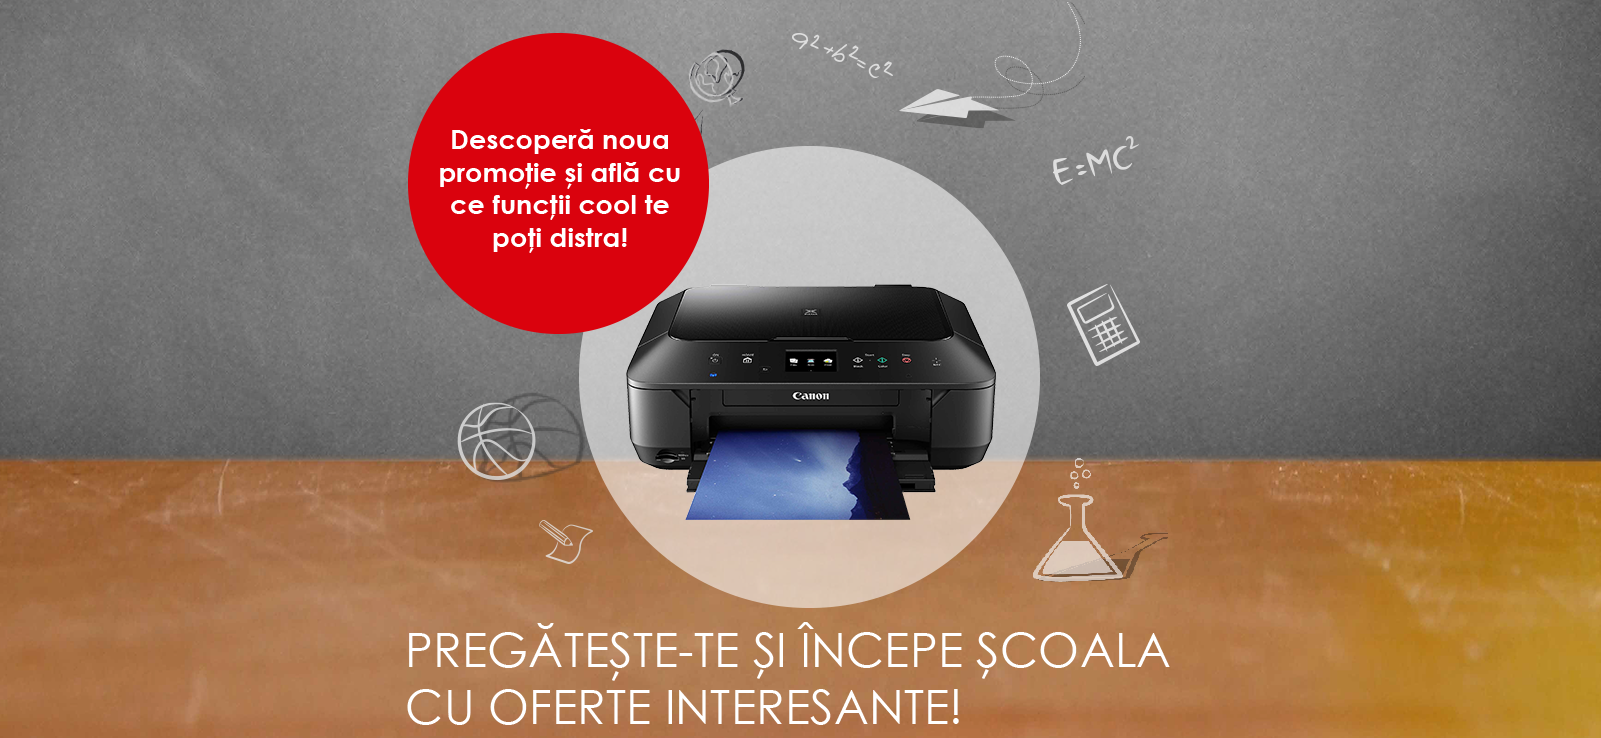
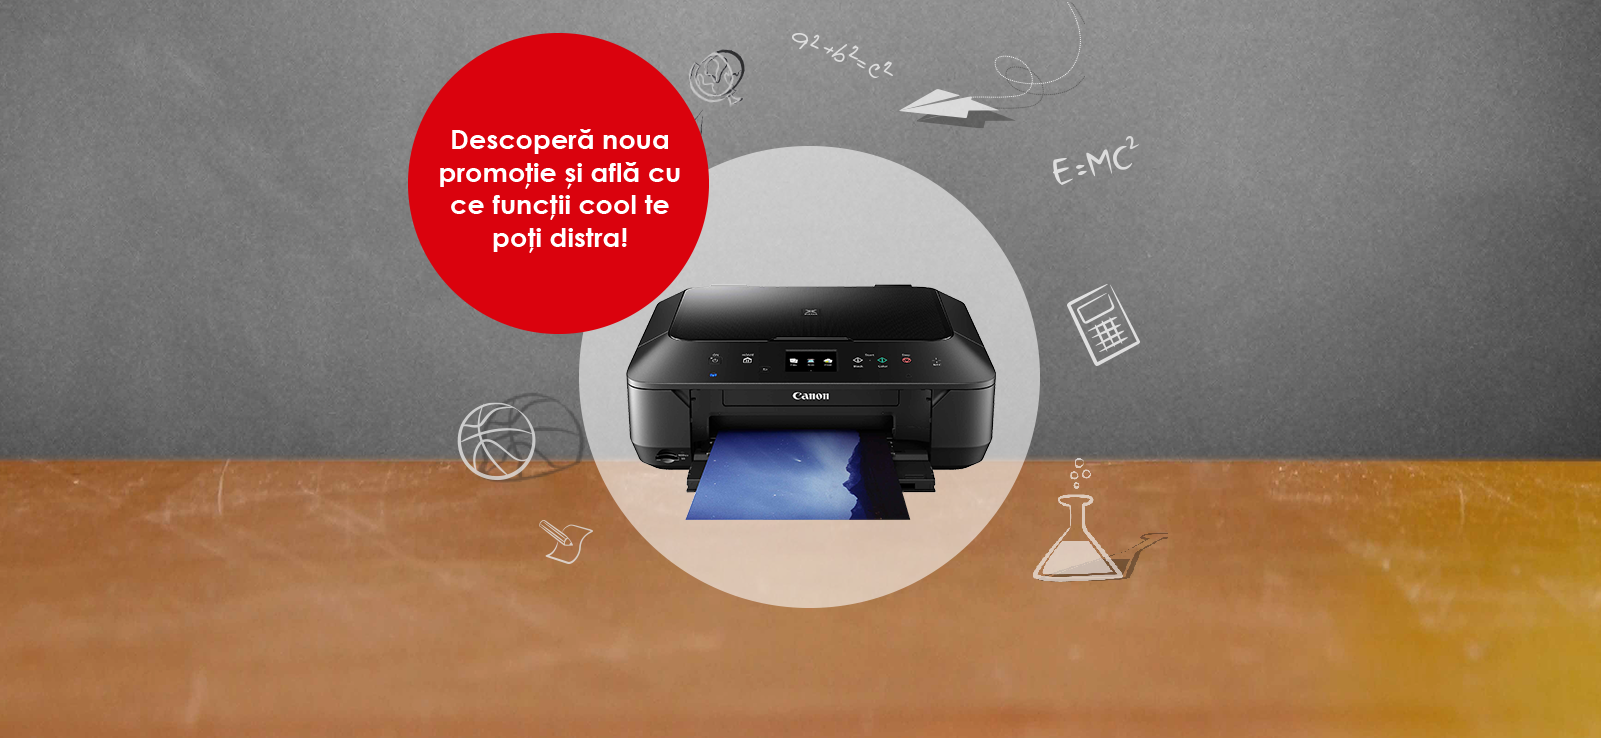
Add texte independente

Changed region(s): [[0.2498, 0.8415, 0.7495, 0.9038], [0.2498, 0.935, 0.5934, 0.9973]]

diff --git a/public/css/main.css b/public/css/main.css
@@ -189,9 +189,23 @@ span.header-span:hover {
 	color:  #ffffff;
 	font-size: 22.14px;/* Approximation due to font substitution */
 	font-weight: 400;
-	border-radius: 10px;
+	border-radius: 7px;
 	display: block;
 	margin: 20px 0;
+}
+
+.btn-trimite-pixma {
+	background-color:  #cc0001;
+	width: 148px;
+	height: 43px;
+	color:  #ffffff;
+	font-size: 22.14px;/* Approximation due to font substitution */
+	font-weight: 400;
+	border-radius: 7px;
+	position: absolute;
+	margin: 20px 0;
+    right: 156px;
+    bottom: -60px;
 }
 
 .btn-trimite-inscriere {
@@ -201,7 +215,7 @@ span.header-span:hover {
 	color:  #ffffff;
 	font-size: 22.14px;/* Approximation due to font substitution */
 	font-weight: 400;
-	border-radius: 10px;
+	border-radius: 7px;
 	margin: 20px 0;
 	position: absolute;
     right: 71px;
@@ -326,4 +340,126 @@ div.conditii {
     width: 238px;
     top: 60px;
     left: 30px;
+}
+
+.school-ready {
+    width: 720px;
+    color: #ffffff;
+    font-size: 47px;
+    font-weight: 400;
+    text-align: left;
+    top: 600px;
+    left: 410px;
+    position: absolute;
+}
+
+span.premii {
+    top: -9px;
+    position: absolute;
+    left: 33px;
+    color: #000000;
+    font-size: 35px;
+    font-weight: 700;
+    text-align: left;
+}
+
+span.premii-intrebare {
+	color: #000000;
+    font-size: 25px;
+    font-weight: 400;
+    text-align: left;
+    width: 384px;
+    height: 51px;
+    top: -15px;
+    position: absolute;
+    left: 373px;
+}
+
+span.promotie {
+    position: absolute;
+    top: -7px;
+    left: 36px;
+    color: #000000;
+    font-size: 35px;
+    font-weight: 700;
+    text-align: left;
+}
+
+span.promotie-pipe {
+    position: absolute;
+    top: -5px;
+    left: 390px;
+    color: #000000;
+    font-size: 33px;
+    font-weight: 400;
+    text-align: left;
+}
+
+span.promotie-parteneri {
+    position: absolute;
+    color: #000000;
+    font-size: 26px;
+    font-weight: 400;
+    text-align: left;
+    left: 1px;
+    top: 50px;
+}
+
+p.conditii1 {
+    color: #7a7a7a;
+    font-size: 12px;
+    font-weight: 400;
+    text-align: left;
+    position: absolute;
+    top: -50px;
+}
+
+p.conditii2 {
+    color: #7a7a7a;
+    font-size: 12px;
+    font-weight: 400;
+    text-align: left;
+    position: absolute;
+    top: -30px;
+}
+
+span.doix {
+	color:  #000000;
+	font-size: 47.86px;/* Approximation due to font substitution */
+	font-weight: 700;
+	text-align: left;
+	position: absolute;
+	left: 0;
+	top: 70px;
+}
+
+span.unux {
+	color:  #000000;
+	font-size: 47.86px;/* Approximation due to font substitution */
+	font-weight: 700;
+	text-align: left;
+	position: absolute;
+    right: 200px;
+    top: 70px;
+}
+
+span.imprimanta {
+	color:  #000000;
+	font-size: 20.09px;/* Approximation due to font substitution */
+	font-weight: 700;
+	text-align: left;
+	position: absolute;
+	left: 0;
+    top: 160px;
+    width: 130px;
+}
+
+span.ipad {
+	color:  #000000;
+	font-size: 20.09px;/* Approximation due to font substitution */
+	font-weight: 700;
+	text-align: left;
+	position: absolute;
+    right: 180px;
+    top: 170px;
 }

diff --git a/resources/views/homepage.blade.php b/resources/views/homepage.blade.php
@@ -1,26 +1,45 @@
 @extends('master')
 
-@section('title', 'Canon')
-
-
-
-
+@section('title', 'Canon back to school')
 
 @section('content')
 @include('header')
-	<div class="main-top"></div>
-
-	<div class="futer">
-		<img class="premii-concurs" src="/img/premii-concurs.png">
+	<div class="main-top">
+		<p class="school-ready">Pregăteşte-te şi începe şcoală cu oferte interesante!</p>
 	</div>
 
+	<div class="futer">
+		<img class="premii-concurs" src="/img/premii.png">
+		<span class="premii">PREMII CONCURS | </span>
+
+		<span class="premii-intrebare">Răspunde la întrebarea noastră şi intri automat în concurs!</span>
+
+		<span class="doix">2 x</span>
+		<span class="unux">1 x</span>
+		<span class="imprimanta">Imprimanta Canon PIXMA</span>
+		<span class="ipad">iPad Mini</span>
+	
+		<form action="/pixma-e-cool">
+		    <input type="submit" class="btn-trimite-pixma" value="Mai departe">
+		</form>
+	</div>
+
+	<br /><br /><br />
 	<div class="split"></div>
 
 	<div class="promotie-canon">
-		<img src="/img/promotie-canon.png">
+		<img src="/img/promotie.png">
+		<span class="promotie">PROMOŢIE CANON | </span>
+		<span class="promotie-pipe">Rechizite cool Cadou</span>
+		<span class="promotie-parteneri">Primeşti un set de rechizite cadou la achiziţionarea unei 
+imprimante Pixma aflate în promoţie la partenerii autorizaţi.</span>
 	</div>
 	
 	<div class="conditii">
+		<p class="conditii1">Promoţie valabilă în perioada 24 august - 30 septembrie 2015.</p>
+
+		<p class="conditii2">**Canon Pixma MG5650, MG6650, MG7550, MX535, MX925, LBP6030, MF3010, MF211</p>
+		
 		<a href="#">
 			<p class="regulament2">REGULAMENT ></p>
 		</a>

diff --git a/resources/views/inscriere.blade.php b/resources/views/inscriere.blade.php
@@ -1,6 +1,6 @@
 @extends('master')
 
-@section('title', 'Canon')
+@section('title', 'Canon back to school')
 
 @section('content')
 @include('header')
@@ -45,7 +45,19 @@
 <div class="split"></div>
 <br /><br />
 
-@include('footer')
+
+<div class="futer">
+	<img class="premii-concurs" src="/img/premii.png">
+	<span class="premii">PREMII CONCURS | </span>
+
+	<span class="premii-intrebare">Răspunde la întrebarea noastră şi intri automat în concurs!</span>
+	
+	<span class="doix">2 x</span>
+	<span class="unux">1 x</span>
+	<span class="imprimanta">Imprimanta Canon PIXMA</span>
+	<span class="ipad">iPad Mini</span>
+
+</div>
 <br />
 <div class="conditii">
 	<p class="conditii">Promoţie valabilă în perioada 24 august - 30 septembrie 2015.</p>

diff --git a/resources/views/video.blade.php b/resources/views/video.blade.php
@@ -1,6 +1,6 @@
 @extends('master')
 
-@section('title', 'Canon')
+@section('title', 'Canon back to school')
 
 @section('content')
 
